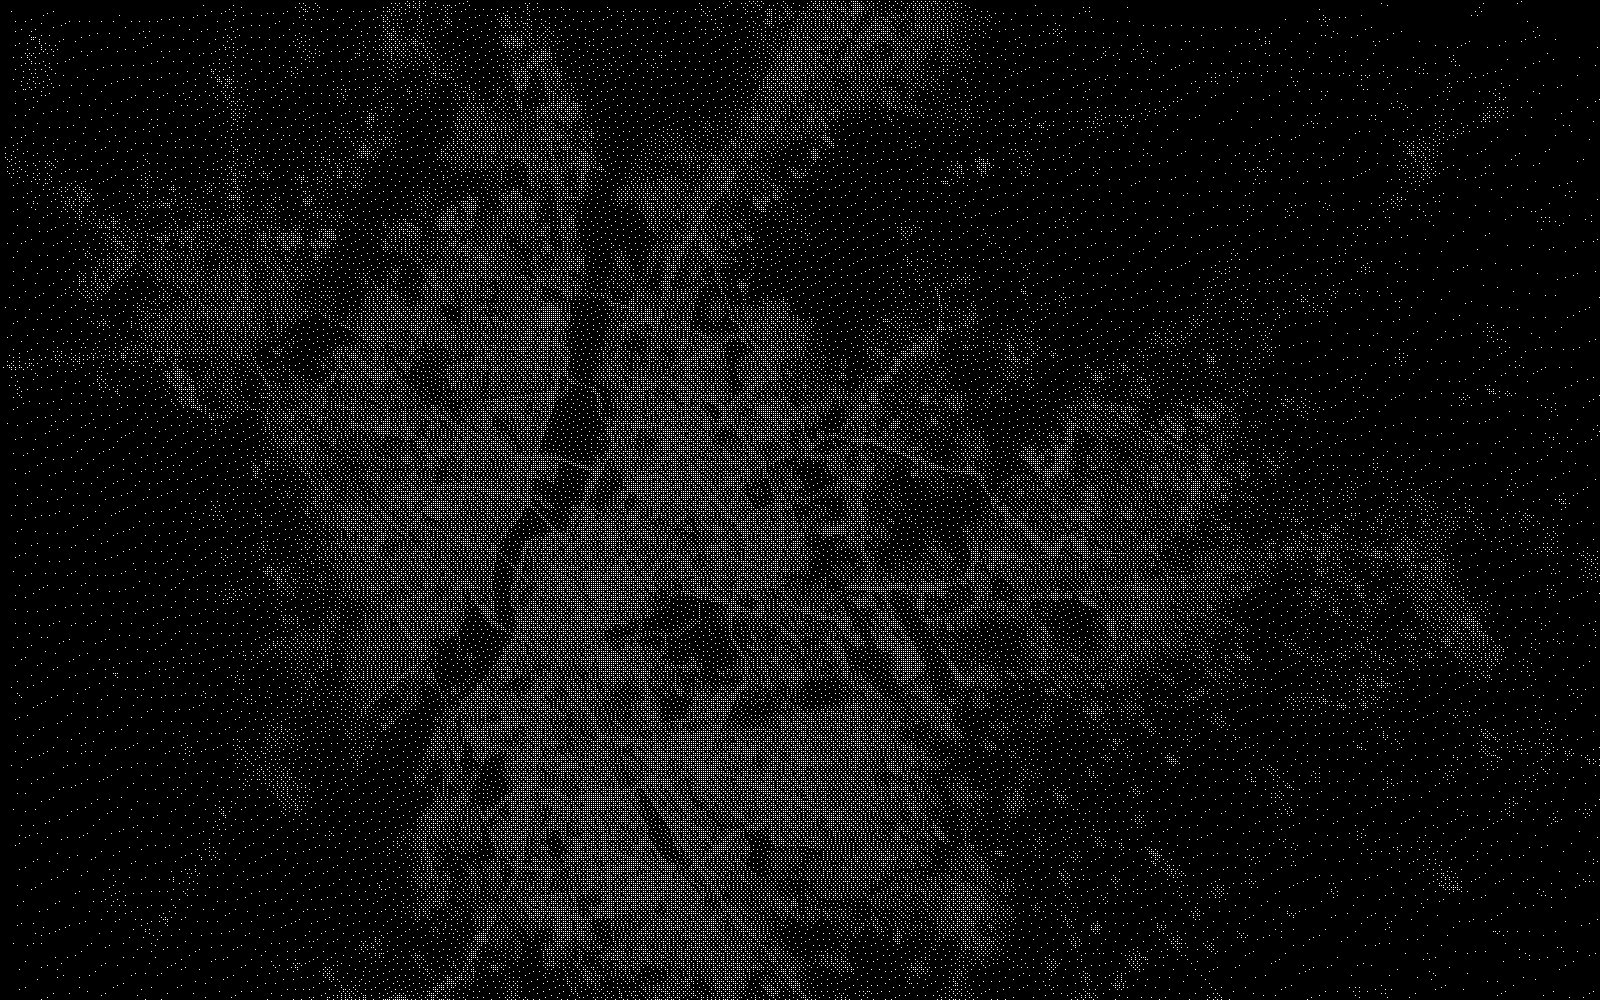
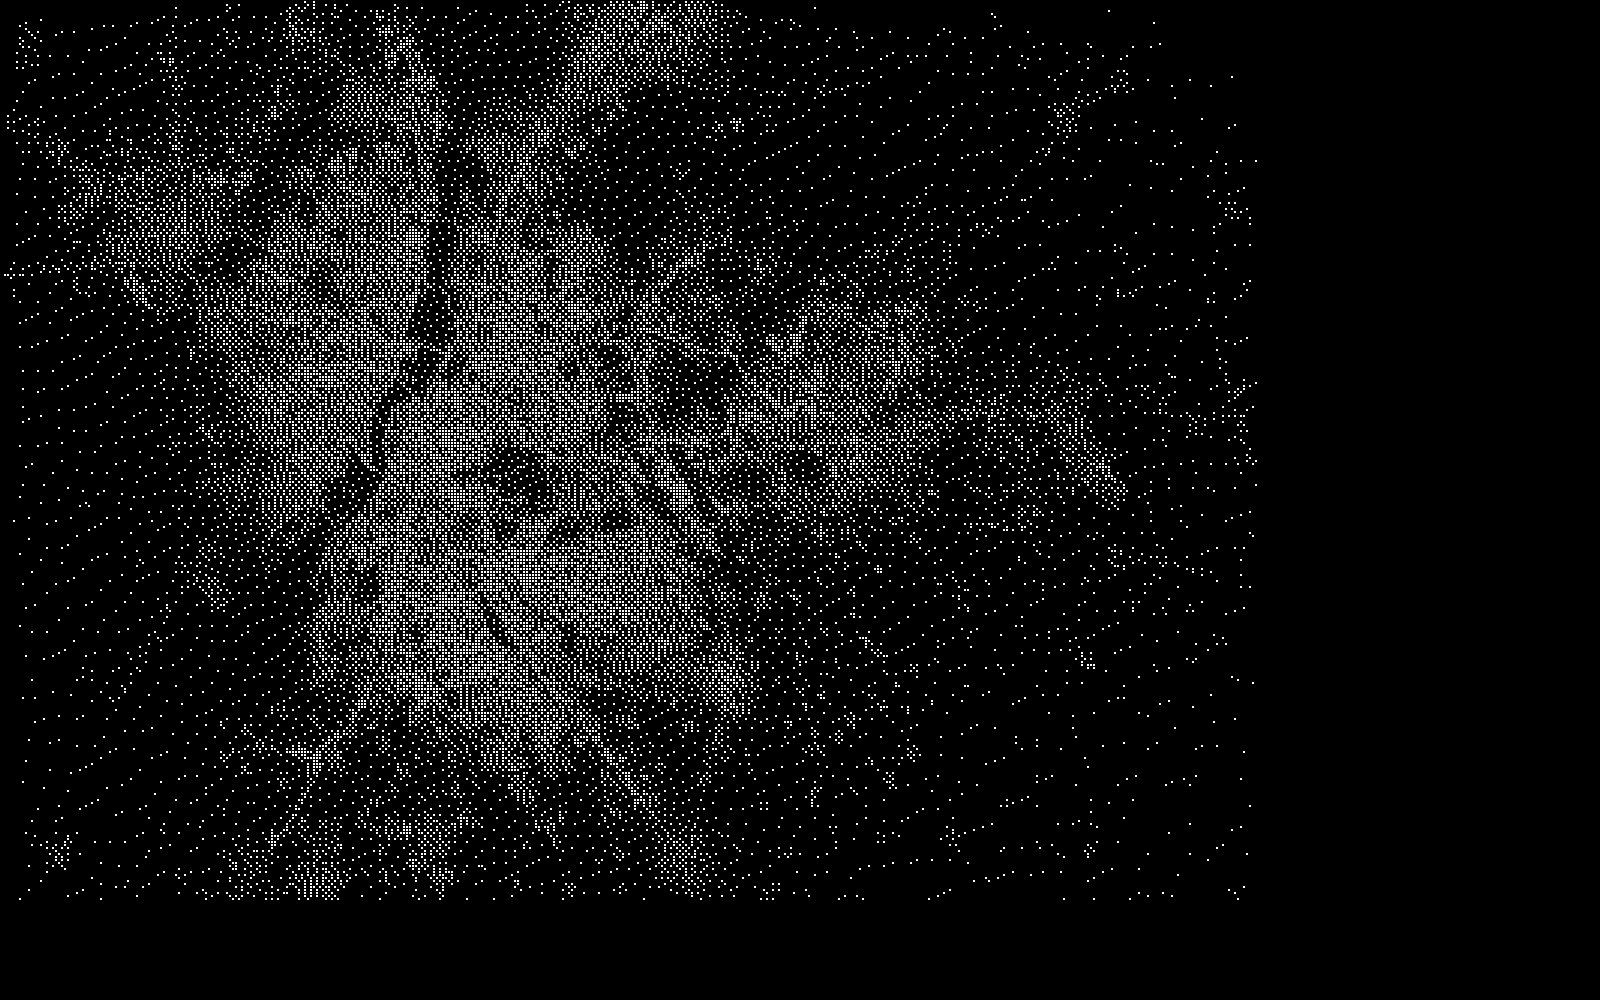
compress image and render on twice size

diff --git a/image_process.py b/image_process.py
@@ -26,11 +26,11 @@ class image:
     def get_binary_arr(self):
         arr = []
         width, height = self.img.size
-        print(f"height {height}, width {width}")
+        #print(f"height {height}, width {width}")
         for i in range(height):
             col = []
             for j in range(width):
-                print(f"this is i {i}, this is j {j}")
+                #print(f"this is i {i}, this is j {j}")
                 pixel_rgb = self.img.load()[j,i]
                 if pixel_rgb >= 180:
                     col.append(1)

diff --git a/game.py b/game.py
@@ -6,13 +6,13 @@ from main import Board
 
 black =  (0,0,0)
 white = (255,255,255)
-width = 1 #20, 8
-height = 1 #20, 8
+width = 2 #20, 8
+height = 2 #20, 8
 margin = 1 #5, 2
 
 #grid = Board([[random.randint(0, 1) for i in range(240)] for j in range(1500)])
 img = image('Resources/delhi_contrasting.jpg')
-img.compress(840, 600)
+img.compress(420, 300)
 img.convert_to_black()
 grid = Board(img.get_binary_arr())
 #grid = Board([[0,0,0,0,0,0,0,0,0,0,0],
